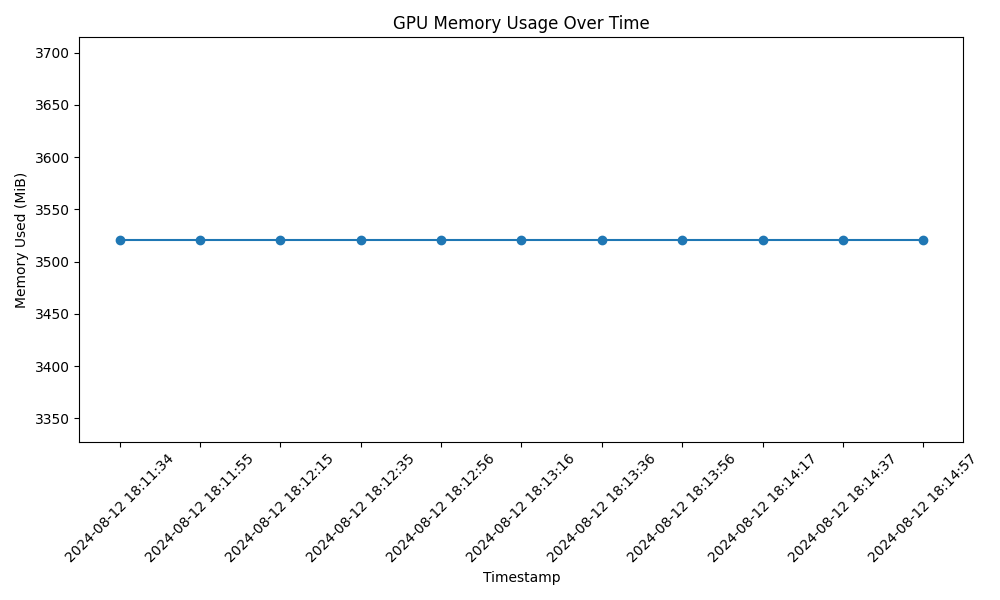
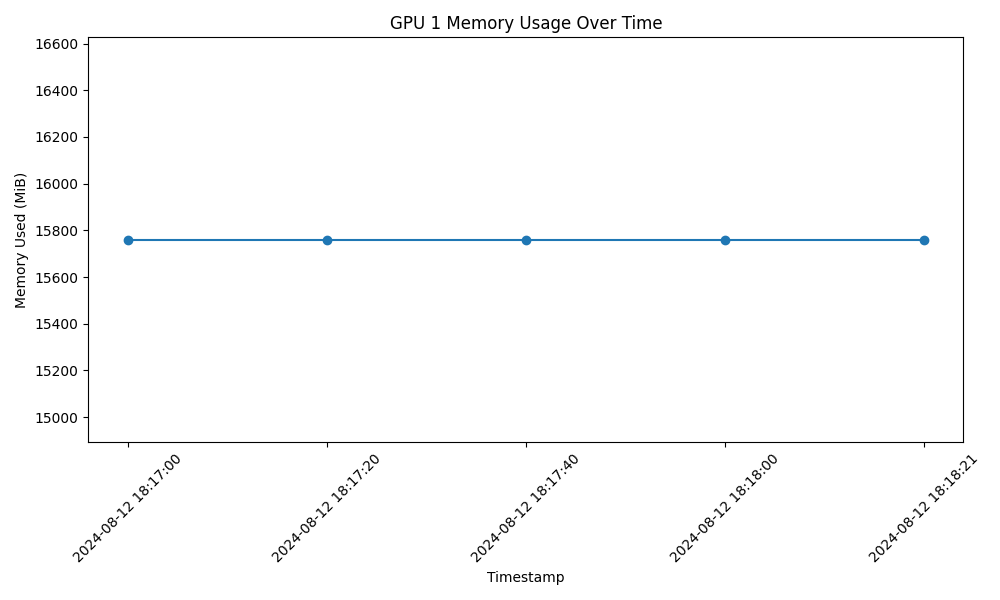
gpu使用率記録(修正)

diff --git a/tools/gpu_usage_logger.py b/tools/gpu_usage_logger.py
@@ -4,6 +4,7 @@ import csv
 from datetime import datetime
 import matplotlib.pyplot as plt
 
+# python3 ./tools/gpu_usage_logger.py で開始
 # ログファイルのパスを指定
 log_file = 'gpu_usage_log.csv'
 graph_file = 'gpu_memory_usage_plot.png'
@@ -38,27 +39,32 @@ def log_and_plot_gpu_memory_usage(interval=60):
         timestamp = datetime.now().strftime('%Y-%m-%d %H:%M:%S')
         gpu_data = get_gpu_memory_usage()
 
-        # ログファイルに書き込み
-        with open(log_file, 'a', newline='') as file:
-            writer = csv.writer(file)
-            for data in gpu_data:
-                writer.writerow([timestamp] + data)
+        # 二番目のGPUのデータを取得
+        if len(gpu_data) > 1:
+            second_gpu_data = gpu_data[1]
+            gpu_id = second_gpu_data[0]
+            memory_used = float(second_gpu_data[1])
 
-        # データをリストに保存（ここでは最初のGPUのみをプロット）
-        timestamps.append(timestamp)
-        memory_usage.append(float(gpu_data[0][1]))  # 最初のGPUのメモリ使用量を使用
+            # ログファイルに書き込み
+            with open(log_file, 'a', newline='') as file:
+                writer = csv.writer(file)
+                writer.writerow([timestamp, gpu_id, memory_used])
 
-        # プロットを更新
-        plt.figure(figsize=(10, 6))
-        plt.plot(timestamps, memory_usage, marker='o')
-        plt.title('GPU Memory Usage Over Time')
-        plt.xlabel('Timestamp')
-        plt.ylabel('Memory Used (MiB)')
-        plt.xticks(rotation=45)
-        plt.tight_layout()
+            # データをリストに保存
+            timestamps.append(timestamp)
+            memory_usage.append(memory_used)
 
-        # グラフを保存
-        plt.savefig(graph_file)
+            # プロットを更新
+            plt.figure(figsize=(10, 6))
+            plt.plot(timestamps, memory_usage, marker='o')
+            plt.title(f'GPU {gpu_id} Memory Usage Over Time')
+            plt.xlabel('Timestamp')
+            plt.ylabel('Memory Used (MiB)')
+            plt.xticks(rotation=45)
+            plt.tight_layout()
+
+            # グラフを保存
+            plt.savefig(graph_file)
 
         # 指定された間隔で待機
         time.sleep(interval)
